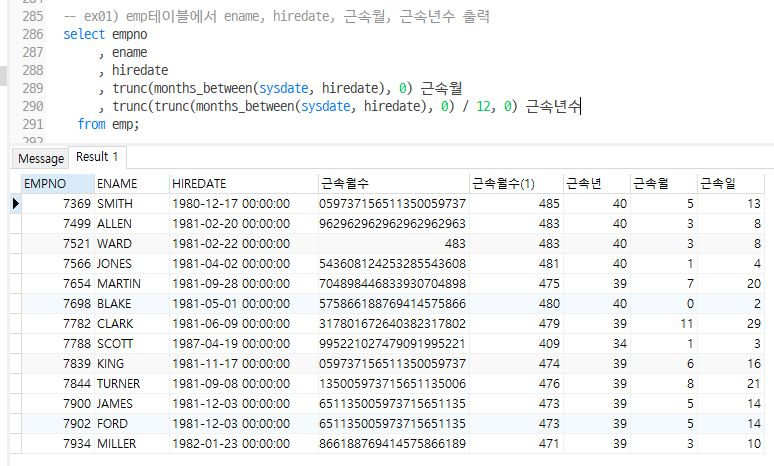
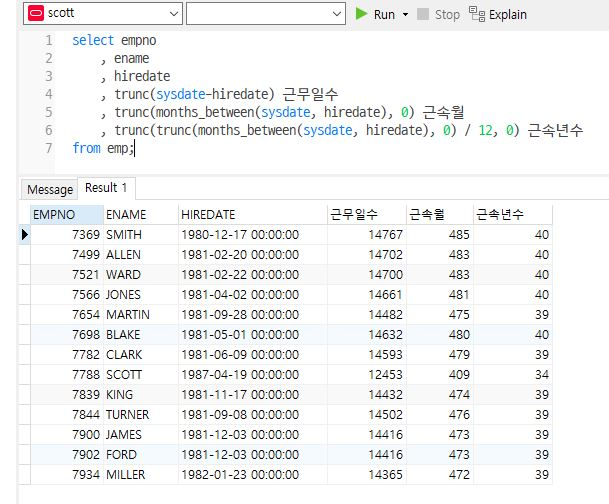
oracle

diff --git a/docs/sql/function/date_function.md b/docs/sql/function/date_function.md
@@ -30,9 +30,20 @@ select sysdate from dual;
 ```
 ![](https://gekdev.github.io/docs/sql/function/example/sysdate.jpg)
 
+날짜 계산하기
+{: .label .mt-2}
+<div class="code-example" markdown="1">
+| 종류 | 결과 | 의미|
+|:----|:-----|:---|
+|date+number | 날짜 | 날짜에 일수를 더하여 날짜 계산    |
+|date-number | 날짜 | 날짜에 일수를 빼서 날짜를 계산    |
+|date-date   | 일수 | 날짜와 날짜를 빼서 일수를 계산    |
+|date+number/24 | 날짜 | 날짜에 시간을 더하여 날짜 계산 |
+</div>
+
 ### months_between()
 
-**두 날짜의 개월수, 결과는 숫자**
+**두 날짜의 개월수가 몇 개월인지를 반환함, 결과는 숫자**
 
 syntax
 {: .label .mt-2}
@@ -56,6 +67,8 @@ syntax
 {: .label .mt-2}
 <div class="code-example" markdown="1">
 **add_months(날짜문자열, 숫자)** 
+
+&#9656; 숫자는 정수여야 하고 음수일수도 있음 
 </div>
 ```sql
 select sysdate
@@ -69,9 +82,9 @@ from dual;
 
 **주어진 날짜를 기준으로 돌아오는 날짜를 출력, 결과는 날짜**
 
-1부터 일요일, ... 7 토요일
+&#9656; 1부터 일요일, ... 7 토요일
 
-Sun과 같이 문자열도 사용가능
+&#9656; Sun과 같이 문자열도 사용가능
 
 syntax
 {: .label .mt-2}
@@ -113,7 +126,26 @@ from dual;
 
 ### Date function with round() / trunc()
 
-숫자함수에서 했던 성질 그대로 날짜를 반올림하거나 버림
+**숫자함수에서 했던 성질 그대로 날짜를 반올림하거나 버림**
+
+syntax
+{: .label .mt-2}
+<div class="code-example" markdown="1">
+**round(date, format)** 
+
+**trunc(date, format)** 
+</div>
+
+| 포멧 모델 | 단위 |
+|:---------|:-----|
+|CC, SCC | 자리 연도의 끝 두 글자를 기준으로 반올림 |
+|SYYY, YYYY, YEAR, SYEAR, YYY, YY, Y | 년(7월 1일부터 반올림) |
+|DDD, D, J | 일을 기준 |
+|HH, HH12, HH24 | 시를 기준 |
+|Q | 한 분기의 두번째 달에 16일을 기준으로 반올림 |
+|MONTH, MON, MM, RM | 월(16일을 기준으로 반올림) |
+|DAY, DY, D | 한 주가 시작되는 날짜 |
+|MI | 분을 기준 |
 
 ```sql
 select sysdate
@@ -126,12 +158,13 @@ select sysdate
 
 ### Example
 
-Q1. EMP 테이블에서 ename, hiredate, 근속월, 근속년수 출력
+Q1. EMP 테이블에서 ename, hiredate, 근무일수, 근속월, 근속년수 출력
 
 ```sql
 select empno
     , ename
     , hiredate
+    , trunc(sysdate-hiredate) 근무일수
     , trunc(months_between(sysdate, hiredate), 0) 근속월
     , trunc(trunc(months_between(sysdate, hiredate), 0) / 12, 0) 근속년수
 from emp;

diff --git a/docs/sql/function/number_function.md b/docs/sql/function/number_function.md
@@ -24,7 +24,7 @@ nav_order: 2
 syntax
 {: .label .mt-2}
 <div class="code-example" markdown="1">
-**ceil() : 주어진 숫자를 올림** 
+**ceil(실수, 자릿수) : 실수를 특정 자리수에서 올림** 
 </div>
 ```sql
 select 123
